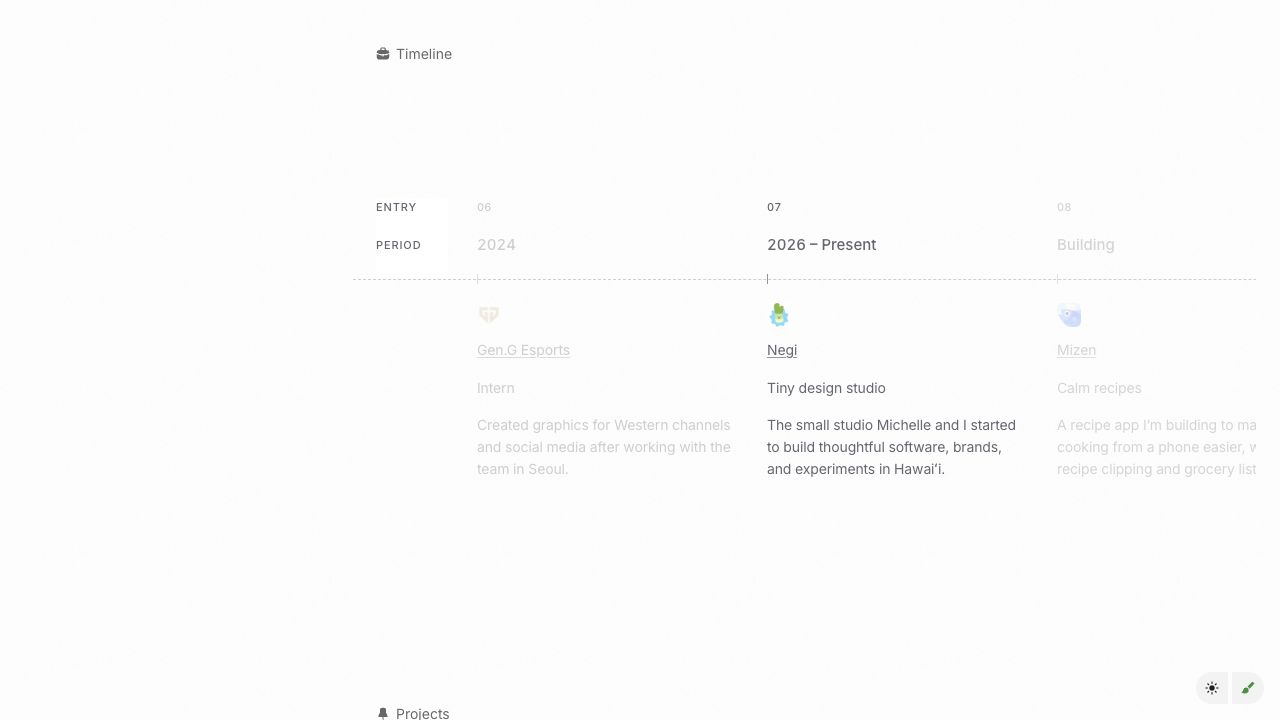
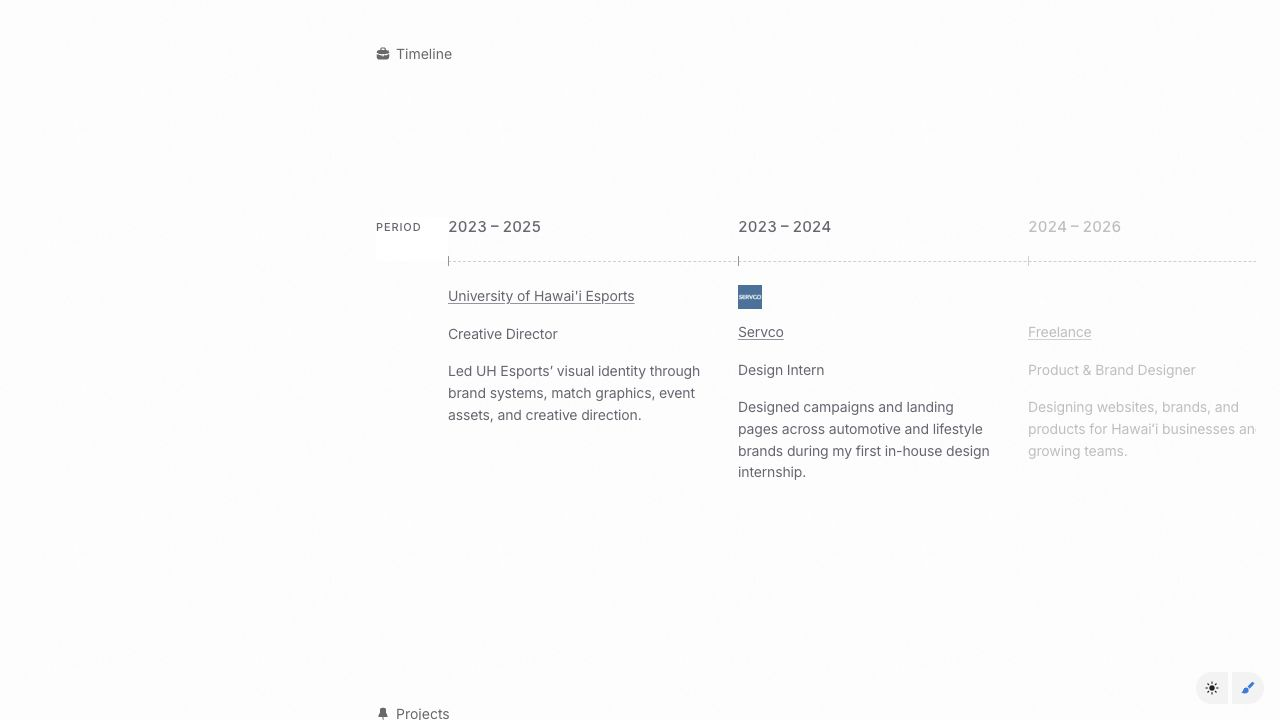
Remove the numbered entry row from the About timeline

diff --git a/components/lifeline/lifeline-vertical.tsx b/components/lifeline/lifeline-vertical.tsx
@@ -24,6 +24,10 @@ import { useLifelineVerticalScroll } from "./use-lifeline-vertical-scroll"
 const GRID_CLASS = "grid grid-cols-[2.5rem_1rem_1fr] gap-x-3"
 const RAIL_LEFT = "calc(2.5rem + 0.75rem + 0.5rem)"
 
+function gridClass(showSecondaryAxis: boolean) {
+  return showSecondaryAxis ? GRID_CLASS : "grid grid-cols-[1rem_1fr] gap-x-3"
+}
+
 /**
  * Above this many entries the delay-armed intro fades would promote
  * every entry to a compositor layer at once and crash mobile Safari's
@@ -59,6 +63,7 @@ const LifelineVerticalEntry = forwardRef<
     introDelay?: number
     introDuration?: number
     revealPending?: boolean
+    showSecondaryAxis?: boolean
   }
 >(function LifelineVerticalEntry(
   {
@@ -68,6 +73,7 @@ const LifelineVerticalEntry = forwardRef<
     introDelay = 0,
     introDuration = 420,
     revealPending = false,
+    showSecondaryAxis = true,
   },
   ref,
 ) {
@@ -110,10 +116,12 @@ const LifelineVerticalEntry = forwardRef<
             : {}),
         }}
       >
-        <div className={`${GRID_CLASS} items-center`}>
-          <p className="text-right text-[11px] font-medium leading-4 tabular-nums text-zinc-500 transition-colors duration-300 dark:text-zinc-600">
-            {age}
-          </p>
+        <div className={`${gridClass(showSecondaryAxis)} items-center`}>
+          {showSecondaryAxis && (
+            <p className="text-right text-[11px] font-medium leading-4 tabular-nums text-zinc-500 transition-colors duration-300 dark:text-zinc-600">
+              {age}
+            </p>
+          )}
 
           <div className="flex items-center justify-center">
             <RailTick />
@@ -125,8 +133,8 @@ const LifelineVerticalEntry = forwardRef<
         </div>
 
         {hasContent && (
-          <div className={`${GRID_CLASS} mt-6`}>
-            <div aria-hidden="true" />
+          <div className={`${gridClass(showSecondaryAxis)} mt-6`}>
+            {showSecondaryAxis && <div aria-hidden="true" />}
             <div aria-hidden="true" />
             <div className="min-w-0 text-zinc-500 transition-colors duration-300 dark:text-zinc-400">
               {marker.badges && marker.badges.length > 0 && (
@@ -203,6 +211,7 @@ export function LifelineVertical({
   title = "Lifeline",
   mode = "auto",
   axisLabels = ["Age", "Years"],
+  showSecondaryAxis = true,
 }: LifelineProps) {
   // Only an explicit `mode` embeds the vertical layout. `"auto"` measures
   // scrollability on desktop, but the mobile layout *is* a vertical
@@ -337,10 +346,12 @@ export function LifelineVertical({
       )}
       style={showIntro ? introStyle : undefined}
     >
-      <div className={cn(`${GRID_CLASS} mb-6 items-end`, showIntro && "lifeline-labels-intro")}>
-        <p className="text-right text-[11px] font-medium uppercase leading-4 tracking-[0.08em] text-zinc-500 transition-colors duration-300 dark:text-zinc-600">
-          {axisLabels[0]}
-        </p>
+      <div className={cn(`${gridClass(showSecondaryAxis)} mb-6 items-end`, showIntro && "lifeline-labels-intro")}>
+        {showSecondaryAxis && (
+          <p className="text-right text-[11px] font-medium uppercase leading-4 tracking-[0.08em] text-zinc-500 transition-colors duration-300 dark:text-zinc-600">
+            {axisLabels[0]}
+          </p>
+        )}
         <div aria-hidden="true" />
         <p className="text-[11px] font-medium uppercase leading-5 tracking-[0.08em] text-zinc-500 transition-colors duration-300 dark:text-zinc-600">
           {axisLabels[1]}
@@ -351,7 +362,7 @@ export function LifelineVertical({
         <div
           aria-hidden="true"
           className="pointer-events-none absolute bottom-0 top-0 overflow-hidden -translate-x-1/2"
-          style={{ left: RAIL_LEFT, width: 1 }}
+          style={{ left: showSecondaryAxis ? RAIL_LEFT : "0.5rem", width: 1 }}
         >
           <div
             className={cn(
@@ -367,6 +378,7 @@ export function LifelineVertical({
               key={marker.id}
               ref={(node) => setEntryRef(index, node)}
               marker={marker}
+              showSecondaryAxis={showSecondaryAxis}
               birthYear={birthYear}
               animateIntro={animateEntries}
               revealPending={showIntro && revealOnScroll}

diff --git a/components/lifeline/lifeline-desktop.tsx b/components/lifeline/lifeline-desktop.tsx
@@ -22,6 +22,7 @@ export function LifelineDesktop({
   title = "Lifeline",
   mode = "auto",
   axisLabels,
+  showSecondaryAxis = true,
 }: LifelineProps) {
   const widths = useMemo(
     () =>
@@ -132,7 +133,7 @@ export function LifelineDesktop({
         <div
           ref={trackRef}
           className="relative flex w-max items-start will-change-transform [--lifeline-people-top:calc(14.5rem+40px)] [--lifeline-rail:5rem]"
-          style={{ width: trackWidth }}
+          style={{ width: trackWidth, "--lifeline-rail": showSecondaryAxis ? "5rem" : "2.75rem" } as CSSProperties}
         >
           {/*
             LIFELINE_STICKY_SHIELD_WIDTH reserves this column at the head of
@@ -154,7 +155,7 @@ export function LifelineDesktop({
             style={{ width: LIFELINE_STICKY_SHIELD_WIDTH }}
           >
             <div className={cn(showIntro && "lifeline-labels-intro")}>
-              <LifelineStickyLabels labels={axisLabels} />
+              <LifelineStickyLabels labels={axisLabels} showSecondaryAxis={showSecondaryAxis} />
             </div>
           </div>
 
@@ -177,6 +178,7 @@ export function LifelineDesktop({
                   key={marker.id}
                   ref={(node) => setMarkerRef(index, node)}
                   marker={marker}
+                  showSecondaryAxis={showSecondaryAxis}
                   birthYear={birthYear}
                   minWidth={widths[index]}
                   animateIntro={showIntro}

diff --git a/components/lifeline/lifeline-marker.tsx b/components/lifeline/lifeline-marker.tsx
@@ -19,6 +19,7 @@ interface LifelineMarkerColumnProps {
   animateIntro?: boolean
   introDelay?: number
   introDuration?: number
+  showSecondaryAxis?: boolean
 }
 
 export const LifelineMarkerColumn = forwardRef<
@@ -32,6 +33,7 @@ export const LifelineMarkerColumn = forwardRef<
     animateIntro = false,
     introDelay = 0,
     introDuration = 420,
+    showSecondaryAxis = true,
   },
   ref,
 ) {
@@ -64,9 +66,11 @@ export const LifelineMarkerColumn = forwardRef<
         />
 
         <div className="flex w-full flex-col items-start text-left">
-          <p className="mb-5 h-4 text-[11px] font-medium leading-4 tabular-nums text-zinc-500 transition-colors duration-300 group-hover:text-black dark:text-zinc-600 dark:group-hover:text-zinc-400">
-            {age}
-          </p>
+          {showSecondaryAxis && (
+            <p className="mb-5 h-4 text-[11px] font-medium leading-4 tabular-nums text-zinc-500 transition-colors duration-300 group-hover:text-black dark:text-zinc-600 dark:group-hover:text-zinc-400">
+              {age}
+            </p>
+          )}
 
           <p className="mb-6 h-5 whitespace-nowrap text-[15px] font-medium leading-5 tabular-nums text-zinc-500 transition-colors duration-300 group-hover:text-black dark:group-hover:text-white">
             {marker.label ?? marker.year}

diff --git a/components/lifeline/lifeline-labels.tsx b/components/lifeline/lifeline-labels.tsx
@@ -4,7 +4,7 @@ export const LIFELINE_STICKY_SHIELD_WIDTH =
   LIFELINE_LABEL_COLUMN_WIDTH + LIFELINE_LABEL_GAP
 export const LIFELINE_STICKY_LEFT = 24
 
-export function LifelineStickyLabels({ labels = ["Age", "Years"] }: { labels?: [string, string] }) {
+export function LifelineStickyLabels({ labels = ["Age", "Years"], showSecondaryAxis = true }: { labels?: [string, string]; showSecondaryAxis?: boolean }) {
   return (
     <div
       className="relative"
@@ -12,9 +12,11 @@ export function LifelineStickyLabels({ labels = ["Age", "Years"] }: { labels?: [
       aria-hidden="true"
     >
       <div className="flex flex-col items-start text-left">
-        <p className="mb-5 h-4 text-[11px] font-medium uppercase leading-4 tracking-[0.08em] text-zinc-500 transition-colors duration-300 dark:text-zinc-600">
-          {labels[0]}
-        </p>
+        {showSecondaryAxis && (
+          <p className="mb-5 h-4 text-[11px] font-medium uppercase leading-4 tracking-[0.08em] text-zinc-500 transition-colors duration-300 dark:text-zinc-600">
+            {labels[0]}
+          </p>
+        )}
         <p className="mb-6 h-5 text-[11px] font-medium uppercase leading-5 tracking-[0.08em] text-zinc-500 transition-colors duration-300 dark:text-zinc-600">
           {labels[1]}
         </p>

diff --git a/components/timeline-section.tsx b/components/timeline-section.tsx
@@ -29,6 +29,7 @@ export function TimelineSection({
           title="Work and projects timeline"
           mode="embed"
           axisLabels={["Entry", "Period"]}
+          showSecondaryAxis={false}
         />
       </div>
     </section>

diff --git a/components/lifeline/types.ts b/components/lifeline/types.ts
@@ -111,4 +111,5 @@ export interface LifelineProps {
   mode?: LifelineMode
   /** Labels for the secondary and primary axes. */
   axisLabels?: [string, string]
+  showSecondaryAxis?: boolean
 }
